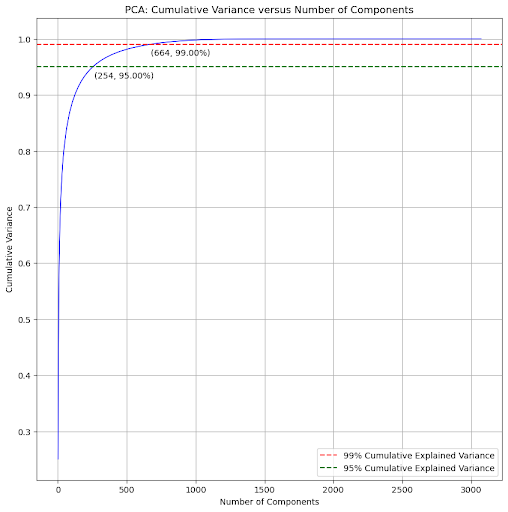
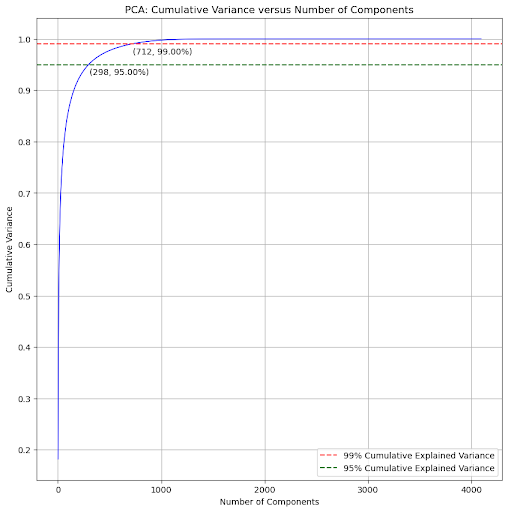
everything else minus gannt

diff --git a/main.py b/main.py
@@ -76,82 +76,104 @@ lr.write( "logreg = LogisticRegression(C = 0.15)\nresults = logreg.fit(x_train, 
 
 st.divider()
 st.title("Results and Discussions:")
-tab1, tab2 = st.tabs(["Unsupervised Learning: Principal Component Analysis (PCA)", "Supervised Learning: Convolutional Neural Network (CNN)"])
-tab1.write("Principal Component Analysis (PCA) is an unsupervised learning method that reduces the number of features (dimensions)"
-           " in a data set while preserving dataset trends and patterns. The benefits of performing PCA include reducing the complexity "
-           "of the model and thus reducing the risk of overfitting the data. However, PCA can result in information loss if the "
-           "cumulative expected variance is too low. A low cumulative expected variance means that the selected components do not "
-           "relate to the original data’s variability, making the loss of information a negative consequence. ")
-tab1.write("For our dataset specifically, the trade-off between 95% and 99% cumulative expected variance must be considered. "
-           "On one hand, choosing the number of components that retain 99% of the cumulative expected variance ensures that the "
-           "finer details are preserved in the image. This is valuable when distinguishing between AI and real images, as these "
-           "details are imperceptible to the human eye. Specifically, research shows that humans misclassify real images from "
-           "AI-generated ones at a rate of 38.7% (Lu et al., 2023).  However, it is ultimately more beneficial to choose the number "
-           "of components that preserve 95% of the variance in the dataset as image data tends to be noisy and complex; by reducing "
-           "the noise in the data, we reduce the risk of overfitting our model. Our model aims to identify AI versus real images "
-           "with an accuracy of at least 87%. Therefore, an overfitted model is less likely to meet this goal as it will not be as "
-           "effective as a well-fit model in classifying the testing images. ")
+pca, cnn, cnnwpca, nb, lr = st.tabs(["Unsupervised Learning: Principal Component Analysis (PCA)", "Supervised Learning: Convolutional Neural Network (CNN)", "Supervised Learning: Convolutional Neural Network with PCA Processed Data", "Supervised Learning: Naive Bayes Classifier", "Supervised Learning: Logistic Regression"])
+pca.write("Principal Component Analysis (PCA) is an unsupervised learning method that reduces the number of features (dimensions) in a data set while preserving dataset trends and patterns. The benefits of performing PCA include reducing the complexity of the model and thus reducing the risk of overfitting the data. However, PCA can result in information loss if the cumulative expected variance is too low. A low cumulative expected variance means that the selected components do not relate to the original data’s variability, making the loss of information a negative consequence. ")
+pca.write("For our dataset specifically, the trade-off between 95% and 99% cumulative expected variance must be considered. On one hand, choosing the number of components that retain 99% of the cumulative expected variance ensures that the finer details are preserved in the image. This is valuable when distinguishing between AI and real images, as these details are imperceptible to the human eye. Specifically, research shows that humans misclassify real images from AI-generated ones at a rate of 38.7% (Lu et al., 2023).  However, it is ultimately more beneficial to choose the number of components that preserve 95% of the variance in the dataset as image data tends to be noisy and complex; by reducing unnecessary noise in the data, we reduce the risk of overfitting our model. Our model aims to identify AI versus real images with an accuracy of at least 87%. Therefore, an overfitted model is less likely to meet this goal as it will not be as effective as a well-fit model in classifying the testing images. ")
 image = Image.open('pcaresults.png')
-tab1.image(image)
-tab1.write("The benefits of using 254 components to capture 95% of the cumulative expected variance versus 664 components to capture 99% of "
-           "the cumulative expected variance is justified by the compression ratio. ")
+pca.image(image)
+pca.write("The benefits of using 298 components to capture 95% of the cumulative expected variance versus 712 components to capture 99% of the cumulative expected variance is justified by the compression ratio. ")
 image = Image.open('pcacoderesults.png')
-tab1.image(image)
-tab1.write("The compression ratio shows that each retained principal component represents information from approximately 12 original features. "
-           "By choosing 254 components over 664 components, we ensure that our model will be computationally efficient with an acceptable level of information loss. ")
+pca.image(image)
+pca.write("The compression ratio shows that each retained principal component represents information from approximately 12 original features. By choosing 298 components over 712 components, we ensure that our model will be computationally efficient with an acceptable level of information loss. ")
 
-tab2.write("For both CNN models (gray and RGB images), we found a decent amount of fluctuation in our accuracy for both training "
-           "data and testing data over time. However, when running CNN with a greater number of epochs, we saw that our accuracy "
-           "values leveled out with our training accuracy which settled higher than our test data. This result was expected, "
-           "and due to the fact that our plot lines for train accuracy and test accuracy are relatively close to each other, "
-           "we can safely assume we have achieved minimal overfitting. We found very similar accuracy levels between our two "
-           "different models, with an accuracy value of roughly 0.9148 for our grayscale CNN model and 0.9186 for our RGB CNN model. "
-           "This metric tells us that our models were good at predicting labels of unknown data in comparison to the true labels. "
-           "The high performance of this CNN is likely due to both our convoluted layering structure "
-           "(i.e., built-in dimensionality reduction) and the large size of our dataset, which helps us reduce overfitting. ")
+cnn.write("For both CNN models (gray and RGB images), we found a decent amount of fluctuation in our accuracy for both training data and testing data over time. However, when running CNN with a greater number of epochs, we saw that our accuracy values leveled out with our training accuracy settling higher than our test data. This result was expected, and due to the fact that our plot lines for train accuracy and test accuracy are relatively close to each other, we can safely assume we have achieved minimal overfitting. We found very similar accuracy levels between our two different models, with an accuracy value of roughly 0.9148 for our grayscale CNN model and 0.9186 for our RGB CNN model. This metric tells us that our models were good at predicting labels of unknown data in comparison to the true labels. The high performance of this CNN is likely due to both our convoluted layering structure (i.e., built-in dimensionality reduction) and the large size of our dataset, which helps us reduce overfitting. ")
 image = Image.open('cnnresultgraph.png')
-tab2.image(image)
-tab2.write("While our CNN does have a high level of accuracy, this metric alone is not always reliable. "
-           "In the case of an unbalanced data set, accuracy becomes a poor evaluation metric as the model can achieve "
-           "high accuracy by simply predicting the majority label for every instance without us knowing. "
-           "While we do already know that our Kaggle dataset is balanced, we still decided to generate precision, recall, "
-           "and f1 scores (harmonic mean) to verify the conclusions we drew from our accuracy score. As displayed in the "
-           "classification reports shown below, we found that we also had high results for each additional metric for both "
-           "the gray and RGB models, giving us a more comprehensive evaluation of their overall performance. "
-           "Additionally, we found very little differences in f1 scores between our gray and RGB models, leading us to further "
-           "conclude that there is no significant difference in classifying images with our CNN when they are grayscale as "
-           "opposed to left in color.")
+cnn.image(image)
+cnn.write("While our CNN does have a high level of accuracy, this metric alone is not always reliable. In the case of an unbalanced data set, accuracy becomes a poor evaluation metric as the model can achieve high accuracy by simply predicting the majority label for every instance without us knowing. While we do already know that our Kaggle dataset is balanced, we still decided to generate precision, recall, and f1 scores (harmonic mean) to verify the conclusions we drew from our accuracy score. As displayed in the classification reports shown below, we found that we also had high results for each additional metric for both the gray and RGB models, giving us a more comprehensive evaluation of their overall performance. Additionally, we found very little differences in f1 scores between our gray and RGB models, leading us to further conclude that there is no significant difference in classifying images with our CNN when they are grayscale as opposed to left in color. ")
 image = Image.open('classificationreportgray.png')
-tab2.image(image)
+cnn.image(image)
 image = Image.open('classificationreportrgb.png')
-tab2.image(image)
-tab2.write("Lastly, we then decided to break down our accuracy metric into a confusion matrix to understand our results better. "
-           "As we know, accuracy is simply true positive added with true negative divided by the total number of predictions. "
-           "For our grayscale model, we found a slightly higher true positive value than true negative, "
-           "meaning that this particular model was best at correctly predicting when inputted images were fake (AI-generated). "
-           "On the contrary, our RGB model had a slightly higher true negative value than true positive, "
-           "meaning that this model was best at correctly predicting when inputted images were real (not AI-generated). ")
-
-with tab2:
+cnn.image(image)
+cnn.write("Lastly, we then decided to break down our accuracy metric into a confusion matrix to understand our results better. As we know, accuracy is simply true positive added with true negative divided by the total number of predictions. For our grayscale model, we found a slightly higher true positive value than true negative, meaning that this particular model was best at correctly predicting when inputted images were fake (AI-generated). On the contrary, our RGB model had a slightly higher true negative value than true positive, meaning that this model was best at correctly predicting when inputted images were real (not AI-generated). ")
+with cnn:
       col1, col2 = st.columns(2)
       image = Image.open('confusionmatrixgray.png')
       col1.image(image)
       image = Image.open('confusionmatrixrgb.png')
       col2.image(image)
 
-st.divider()
-st.title("Discussion of  PCA and CNN and Future Works:")
-st.write("Before our final report, we will also advance our data preprocessing for PCA by normalizing and centering the images. "
-         "Currently, the images are flattened for PCA preprocessing. Regarding the relationship between PCA and CNN, PCA is a "
-         "dimensionality reduction technique while CNN is a deep-learning technique that is extremely effective in image "
-         "classification tasks. To expand on our implementation of CNN, we will perform CNN using the PCA-reduced dataset against "
-         "the non-PCA-reduced dataset. This will assess the impact of PCA on the performance of CNN. Additionally, we will explore "
-         "the possibility of using a GAN combined with a CNN to improve our model’s accuracy. ")
+cnnwpca.write("Performing PCA on the gray image dataset and the RGB image dataset showed vastly different results in both the training and testing accuracy. ")
+image = Image.open('cnnwpcaresults.png')
+cnnwpca.image(image)
+cnnwpca.write("The RGB training accuracy is significantly higher than the gray training accuracy, with both training accuracies higher than the validation accuracy. The training accuracy around epoch 4 for both gray and RGB increased rapidly, while the validation accuracy began to level out at epoch 4.  The higher training accuracy indicates that the model may be overfitted; this may be due to the fact that PCA simplified the data by reducing dimensionality, making the CNN model too complex for the data. The number of convolutional and pooling layers in the CNN model for the PCA processed data set was decreased to reduce the degree of overfitting. ")
+cnnwpca.write("To evaluate the effectiveness of the models, we generated precision, recall, and f1 scores to compare the models and draw more insightful conclusions. There was a 3% difference in the f1 score between the gray and RGB datasets, indicating that performing PCA on the datasets does impact how well the model classified images when they are grayscale as opposed to left in color. ")
+image = Image.open('cnnwpcaclassreport.png')
+cnnwpca.image(image)
+cnnwpca.write("The confusion matrix below further evaluates our accuracy metric. The RGB model had an accuracy of 89%, while the grayscale model had an accuracy of 86%. This means that CNN performed better when the dimensionality of the dataset was higher. PCA with 298 components reduced the dimensionality of both datasets by 83.87%, and making the images gray resulted in a lower-dimensional 2D array rather than the 3D array needed for RGB images. With a higher dimensionality, our CNN model was able to exploit the spatial relationships more effectively, resulting in a higher accuracy for our RGB model. Additionally, the RGB model had a higher precision, recall, and f1 score than the gray model, further validating the claim that our CNN model performs better when the dimensionality of the dataset is higher. It is important to note that PCA with 298 components was chosen as our unsupervised learning analysis showed that 298 components resulted in 95% cumulative expected variance. ")
+cnnwpca.write("Regarding identifying AI-generated versus real images, the RGB model had a higher true negative value, meaning that it is the best at correctly identifying when inputted images are real in cases when PCA is and is not performed on the dataset. Additionally, the RGB model is also better at identifying when inputted images are fake (AI-generated) as it has a higher true positive value as well. ")
+with cnnwpca:
+      col1, col2 = st.columns(2)
+      image = Image.open('confusionmatrixgraycnnwpca.png')
+      col1.image(image)
+      image = Image.open('confusionmatrixrgbcnnwpca.png')
+      col2.image(image)
+
+nb.write( "In order to evaluate the performance of our Naive Bayes model, we plotted a confusion matrix showing the number of true positives, true negatives, false positives, and false negatives of each model. From these values, we were able to computationally derive the accuracy, precision, recall and f1 scores. The model had an overall accuracy of 60.30% for grayscale images, and 60.33% for RGB images. As it can be seen, both models performed relatively poorly at classifying images as real or AI-generated." )
+with nb:
+      col1, col2 = st.columns(2)
+      image = Image.open('nbconfusionmatrixgray.png')
+      col1.image(image)
+      image = Image.open('nbconfusionmatrixrgb.png')
+      col2.image(image)
+nb.write( "Although this model did not perform as well as our other methods, it’s not surprising given that Naive Bayes is inherently built on the naive assumption that features of the input data are independent of each other. It’s likely that the features of our input data are correlated, thus causing this assumption to be inaccurate. Additionally since we used a Gaussian distribution, it might be the case that our data doesn’t closely follow a continuous normal distribution. For future purposes, it might be valuable to compare the Naive Bayes model on Bernoulli or Multinomial distributions. In general while the independence of Naive Bayes allows for a computationally fast and simple approach, there is a tradeoff in accuracy when the assumption does not hold.")
+
+lr.write("For our logistic regression model, we yielded very different results between our grayscale and RGB datasets. Our accuracy metric was quite high for our grayscale model, landing at around ~93.97%. Accuracy for the RGB data landed at around ~67.15%. Similarly, our loss (calculated via Scikit’s log loss function) differed substantially between our two color variations. For our grayscale model, loss landed at around ~2.099; in comparison, loss for our RGB data was around ~11.346. Given this difference, we suspect that this particular supervised model was better suited for our data when it was preprocessed to be in grayscale. While there are many reasons why this may be the case, we mostly suspect feature redundancy/noise within our RGB dataset due to the increased number of channels. For this particular classification task, logistic regression might not be able to effectively distinguish between useful color features and irrelevant ones, further leading to reduced performance. Grayscaling images reduces the complexity of the data by converting it to a single channel-- this can simplify the learning process, thus making it easier to identify relevant patterns and features for classification. In addition, grayscale images might offer better class separability compared to color images. This could be due to the nature of the images and/or how color information is distributed across the two classes, causing RGB data to not fit well to the linearly-separable assumption that logistic regression holds to.")
+lr.write("Similar to our CNN model, we decided to further investigate our results by leveraging more informative evaluation metrics such as precision, recall, and f1. Additionally, we also generated confusion matrices for both color-variant datasets.")
+lr.write("As shown below, our classification reports yielded very consistent values for precision, recall, and f1 scores for both our grayscale data and our RGB data. In addition, these values were also very similar to our accuracy score. While this observation originally made us skeptical of our model implementation, upon further analysis, we concluded that we simply encountered a rare case given that our data is evenly balanced between the two labels.  ")
+image = Image.open('grayclassreportnb.png')
+lr.image(image)
+image = Image.open('rgbclassreportnb.png')
+lr.image(image)
+lr.write("Assuming that precision, recall, and f1 are calculated as shown below, we can actually solve a system of equations to find that all three values can be equal when false positive (FP) = false negative (FN). While rare, this result is not necessarily impractical given we are using a perfectly balanced dataset. ")
+image = Image.open('equation.png')
+lr.image(image)
+lr.write("However, to verify further, we conducted a few manual calculations to find our total amounts of false positives and false negatives. As shown below, we can see that in both cases, we had nearly identical false positive and false negative values, leading us to verify the conclusion drawn above. ")
+with lr:
+      col1, col2 = st.columns(2)
+      image = Image.open('grayclasstotals.png')
+      col1.image(image)
+      image = Image.open('rgbclasstotals.png')
+      col2.image(image)
+lr.write("Our confusion matrices showed a similar symmetric property, further reinforcing our outcome and helping us visualize this special case. These matrices are shown below. Once again, while unlikely, symmetric confusion matrices typically indicate that the model is performing equally well (or equally poorly) on both classes in this particular dataset. While the balanced dataset is a good candidate to explain why this occurred, this could also be due to the features of each image not providing enough discriminatory information between the two classes.")
+with lr:
+      col1, col2 = st.columns(2)
+      image = Image.open('lrconfusiongray.png')
+      col1.image(image)
+      image = Image.open('rgbconfusionlr.png')
+      col2.image(image)
 
 st.divider()
-st.title("Contribution Table:")
-image = Image.open('contributionchart.png')
+st.title("Comparison of Methods: ")
+st.write("After analyzing each of the four methods we utilized to classify our dataset, namely Convolutional Neural Network, Convolution Neural Network with Principal Component Analysis Processed Data, Naive Bayes Classifier, and Logistic regression, we looked more closely at their associated metrics to identify the best method to utilize for our purpose as well as whether or not the images should be grayscale or RGB. We decided to utilize these methods to address our goal as they have been previously used for other image classification purposes as described in literature. The tables below summarize the results with the first table comparing the methods for the grayscale images and the second table comparing the methods for the RGB images.")
+image = Image.open('grayscalemethods.png')
 st.image(image)
+image = Image.open('rgbmethods.png')
+st.image(image)
+st.write("At the start, we were interested in exploring whether or not dimensionality reduction was required for successful classification of real vs AI-generated images. To do so, we ran a convolutional neural network on the original, non-modified images and then ran a convolutional neural network on the PCA-processed images. Regarding performing PCA on the dataset prior to inputting it into a CNN model, it was found that CNN performed better when the data preprocessing did not include PCA. One reason for this result is that PCA results in the loss of information as it projects data onto a lower-dimensional subspace. If the information lost includes essential patterns and relationships, then CNN can struggle to learn meaningful relationships in the dataset and accurately identify if the images are real or AI-generated. Another reason that performing PCA on the dataset reduced the accuracy of CNN is that PCA is a linear transformation. CNN models are designed to identify non-linear relationships in data. Thus, performing a linear transformation on the dataset may remove the non-linear relationships and reduce the complexity of the dataset making it difficult for a CNN to automatically learn hierarchical and non-linear relationships. ")
+st.write("Furthermore, it is important to analyze how performing PCA on the dataset inputted into CNN can make the CNN model overfit. We chose to perform PCA using 298 components to preserve 95% of the variance in the dataset, rather than performing PCA using 712 components to preserve 99% of the expected variance in the dataset. This was done to reduce the risk of overfitting, as retaining more variance in a smaller dataset may result in a model performing well on training data and not generalizing well on validation data. However, even with 298 components, the CNN model showed signs of overfitting the data. This means that the reduced dataset from PCA was either too small or not representative of the original data, resulting in the CNN model learning the noise in the training data. Thus, a more generalizable CNN model was created when PCA was not performed on the dataset. ")
+st.write("Lastly, the performance of the CNN model on the PCA reduced gray and RGB dataset highlighted the fact that CNN performed better when there was more complexity in the data. For all metrics (precision, accuracy, recall, and f1-score), CNN performed better on the RGB dataset. This means that the spatial information encoded in the different color channels was essential for identifying whether an image was real or AI-generated when PCA-induced information loss occurred. Without PCA, the CNN model on the gray image dataset and RGB image dataset performed almost identically. However, performing PCA and converting the images to gray-scale resulted in the loss of essential spatial information that the CNN model needed to produce accurate results. ")
+st.write("Another aspect we were interested in exploring is whether or not the images should be grayscale or colored when determining if an image is real or AI-generated/fake. Looking at the metrics listed in the tables above, each respective method had similar accuracy, precision, recall, and f1-score values for both versions of an image except logistic regression. For logistic regression, this supervised method performed significantly better for classifying grayscale images compared to RGB images as its accuracy was 26.82% higher and its precision, recall, and f1-score was 27% higher for grayscale than colored version. Thus, if one has a dataset of grayscale images, they should ideally use logistic regression as its accuracy, precision, recall, and f1-score metrics were the highest overall. As previously described in the Supervised Learning: Logistic Regression section above, the reason for this drastic difference between grayscale and RGB images may be due to the fact that feature redundancy/noise in the RGB version of the data is more prevalent due to an increase in the number of channels from 1 for grayscale images to 3 for RGB images. ")
+st.write("Yet, in general, if one wants to be able to utilize a single method for any type of image, whether or not that image is grayscale or RGB, a CNN would be the best option. Although logistic regression has higher metrics for grayscale images compared to CNN, it does significantly worse in classifying RGB images. Therefore, CNN would be the optimal choice for classifying if images are real or AI-generated/fake. CNN is ideal as it contains multiple convolutional layers that reduce the high dimensionality of images without losing any vital information. This aspect allows a CNN to be a generalizable model that can classify unseen images at a rather high accuracy. On the other hand, Naive Bayes performed the worst for image classification and therefore, should not be used. This could be due to the fact that although Naive Bayes can train fast, it has difficulty in handling unknown features. Therefore, based on the metrics displayed above, CNN is the best choice for classifying images as real or AI-generated as it has the capabilities to easily extract features from images and recognize the patterns that exist within them compared to naive bayes classifier and logistic regression. ")
+
+st.divider()
+st.title("Conclusion")
+st.write("Our goal was to identify the optimal machine learning technique that can easily and successfully classify if an image is real or AI-generated at a level of accuracy higher than human classification (61.3%) and ideally higher than current AI model accuracy (~87%). In a world where AI is becoming more prevalent, this is more important than ever as false images can alter one’s perception of reality and historical events, amplify stereotypes, and impede on an individual's creativity. Identifying a technique that can classify the integrity of images is essential as humans misclassify real images from AI-generated ones 38.7% of the time (Lu et al., 2023). Thus, throughout the project, we explored different data pre-processing techniques as well as various unsupervised and supervised learning methods to achieve the best results.")
+st.write("For this project, we desired to explore various techniques to determine if one yielded better results than the other. The four main methods we tested were Convolutional Neural Networks, Convolutional Neural Networks with PCA processed data, Naive Bayes, and Logistic Regression. We first started by determining if there was a need to pre-process the data via PCA prior to running it into CNN. However, based on our findings described above, this additional data pre-processing step is not required as CNN’s accuracy with the non-PCA processed images is about 3% higher than CNN’s accuracy with PCA-processed images. Simultaneously, we analyzed the differences in model accuracy, precision, recall, and f1-score if the images were grayscale or RGB. With the exception of logistic regression, all methods had similar metrics for both versions of the image. We identified that the reason for the differences in the logistic regression metrics was due to higher feature redundancy/noise in the RGB images compared to the grayscale images. Although logistic regression had the highest metrics for grayscale images out of all the methods, CNN is the best option as it is able to classify any type of image as real or AI-generated at ~91% accuracy rate. ")
+st.write("In conclusion, we were able to achieve our goal of identifying a machine learning technique that has the capability to identify images as real or fake at a level of accuracy higher than human classification (61.3%) and existing AI model accuracy (~87%). In our case, CNN was the ideal method that satisfied our purpose and had the capability to classify all types of images at a high accuracy rate of ~91%. Utilizing this technique to facilitate in identifying the validity of images circulating in the world and in the media is promising and exploration on how to further refine and perfect the CNN could have significant societal benefits.")
+st.write( "Contribution table: ")
+image = Image.open('contribution.png')
+st.image(image)
+
 
 st.divider()
 st.title("Gantt Chart: ")
